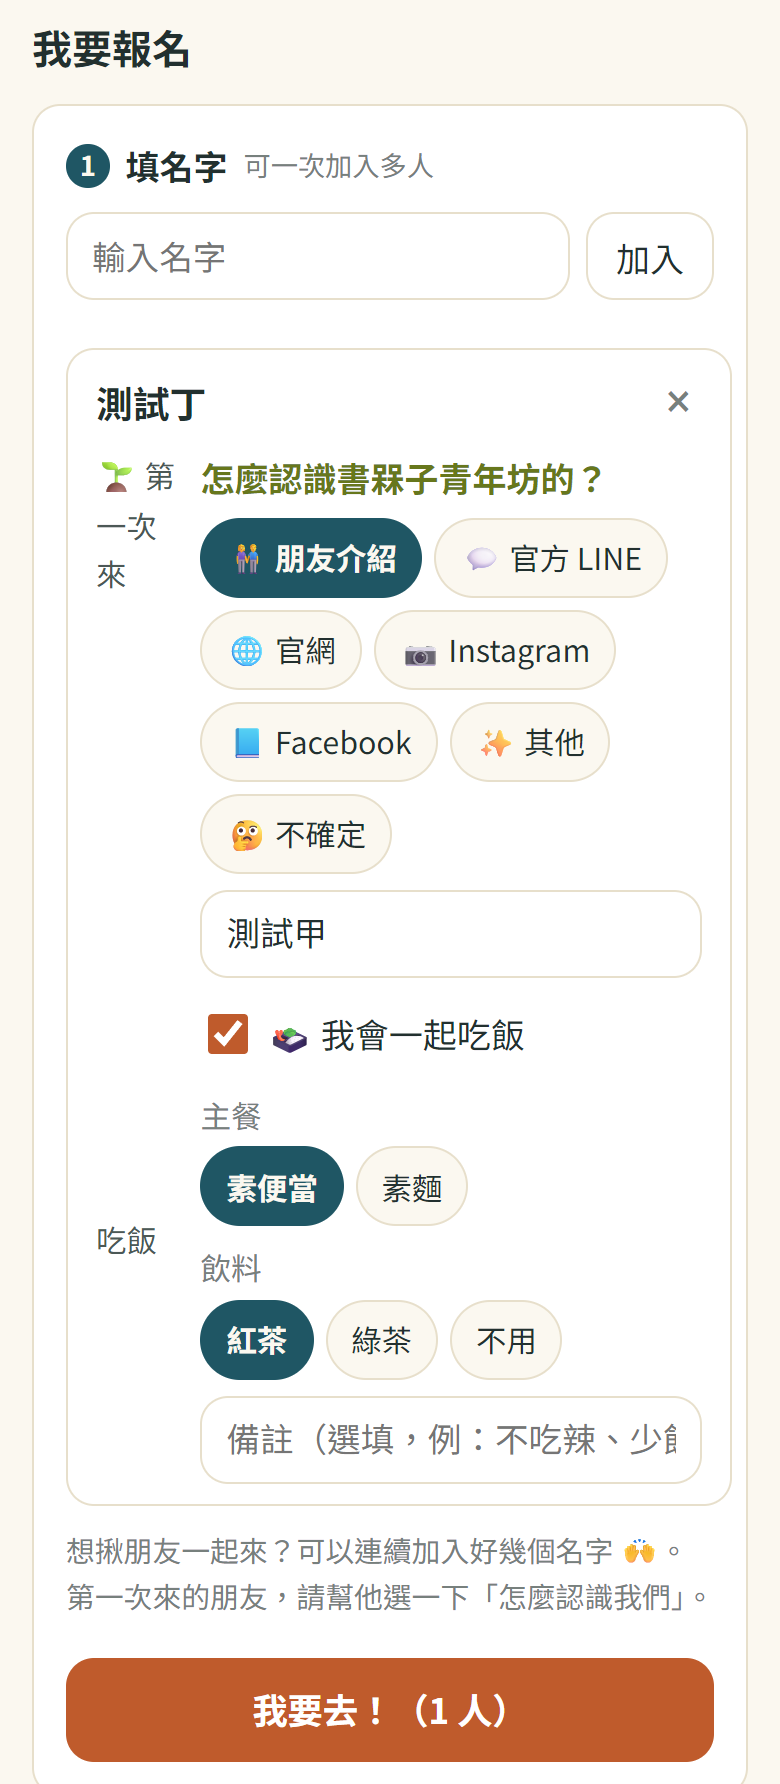
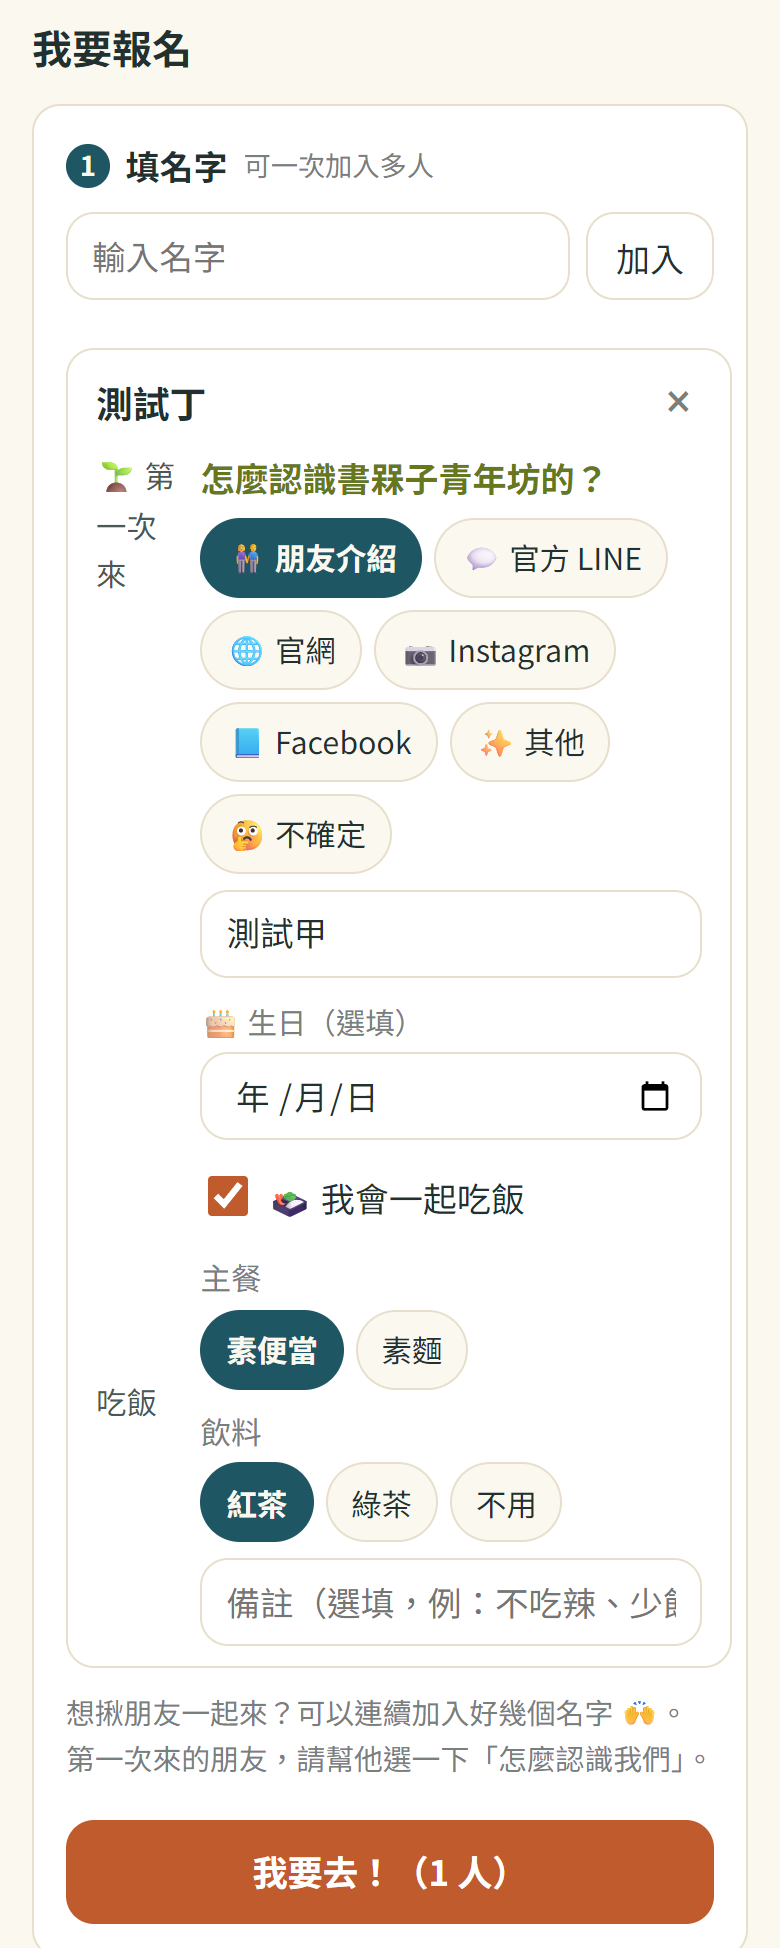
生日：第一次報名、團購結帳選填，後台可改；歲數照生日算；後台成員頁列本月壽星

diff --git a/js/admin-people.js b/js/admin-people.js
@@ -189,9 +189,14 @@
     const pendingList = data.members.filter((m) => m.pending);
     const isSuper = canEditPeople(); // 總管理者、道務、教育帳號可以編輯成員
     if (memberState.filter === 'pending' && !pendingList.length) memberState.filter = 'active';
+    // 🎂 本月壽星（啟用中、有生日的，照日期排）
+    const month = Fmt.toDateStr(new Date()).slice(5, 7);
+    const today = Fmt.toDateStr(new Date()).slice(5);
+    const stars = data.members.filter((m) => m.active && m.birthday && m.birthday.slice(5, 7) === month).sort((a, b) => (a.birthday.slice(5) < b.birthday.slice(5) ? -1 : 1));
     body.innerHTML = `
       ${AdminPage.staleNote(stale)}
       ${flash}
+      ${stars.length ? `<div class="notice bday-box"><p><strong>🎂 本月壽星（${Number(month)} 月）</strong></p><ul class="bday-list">${stars.map((m) => { const md = m.birthday.slice(5); const passed = md < today; const age = Number(Fmt.toDateStr(new Date()).slice(0, 4)) - Number(m.birthday.slice(0, 4)); return `<li class="${md === today ? 'is-today' : passed ? 'is-past' : ''}"><span>${Number(md.slice(0, 2))}/${Number(md.slice(3))}</span><b>${esc(m.name)}</b><small>${md === today ? '今天生日 🎉・' : ''}滿 ${age} 歲</small></li>`; }).join('')}</ul></div>` : ''}
       ${pendingList.length ? `<div class="notice pending-banner" role="status"><p>🆕 <strong>有 ${pendingList.length} 位新成員待確認</strong>（報名時自動加入的新名字）</p>${memberState.filter === 'pending' ? '<p class="muted">確認每一位：沒問題按「保留」；其實是名單上的某人（寫法不同）按「合併到⋯」；打錯或不需要的按「刪除」。</p>' : '<button type="button" class="btn btn-primary" data-show-pending>查看待確認的人</button>'}</div>` : ''}
       ${canEditPeople() ? '<div class="admin-actions"><button type="button" class="btn btn-primary" data-add>＋ 新增成員</button><button type="button" class="btn" data-from-signups>從出勤紀錄加入成員</button>' + (Fmt.feature('temple') ? '<button type="button" class="btn" data-import-members>📋 匯入成員資料</button><button type="button" class="btn" data-same-name>👥 同名的舊紀錄</button>' : '') + '</div>' : ''}
       <div class="list-filter">
@@ -356,7 +361,8 @@
       ${sources.length ? `<label class="form-row"><span>🌱 怎麼認識的${v.firstDate ? `（第一次報名 ${esc(Fmt.rocDate(v.firstDate))}）` : ''}</span><select class="input" name="source"><option value="">（空白）</option>${sources.map((x) => `<option${x === v.source ? ' selected' : ''}>${esc(x)}</option>`).join('')}</select></label>
       <label class="form-row" data-ref-row${v.source === '朋友介紹' ? '' : ' hidden'}><span>介紹人</span><input class="input" name="referrer" maxlength="20" value="${esc(v.referrer || '')}"></label>
       <label class="form-row" data-note-row${v.source === '其他' ? '' : ' hidden'}><span>在哪裡知道的</span><input class="input" name="sourceNote" maxlength="50" value="${esc(v.sourceNote || '')}"></label>` : ''}
-      <label class="form-row"><span>年齡（選填，今年幾歲；之後每年自動加一歲）</span><input class="input" name="age" inputmode="numeric" maxlength="3" value="${esc(v.age === undefined ? '' : v.age)}" placeholder="例：45"></label>
+      <label class="form-row"><span>🎂 生日（選填；有填的話歲數照生日算）</span><input class="input" type="date" name="birthday" min="1900-01-01" max="${esc(Fmt.toDateStr(new Date()))}" value="${esc(v.birthday || '')}"></label>
+      <label class="form-row" data-age-row${v.birthday ? ' hidden' : ''}><span>年齡（不知道生日的話填，今年幾歲；之後每年自動加一歲）</span><input class="input" name="age" inputmode="numeric" maxlength="3" value="${esc(v.age === undefined ? '' : v.age)}" placeholder="例：45"></label>
       <label class="check" data-veg-row${(v.identity || '') === '道親' && Fmt.feature('vegetarian') ? '' : ' hidden'}><input type="checkbox" name="vegetarian"${v.vegetarian ? ' checked' : ''}> 🥬 已清口</label>
       <label class="form-row"><span>備註</span><input class="input" name="note" value="${esc(v.note)}"></label>
       <label class="check"><input type="checkbox" name="active"${v.active ? ' checked' : ''}> 啟用中（取消勾選＝停用）</label>`,
@@ -366,7 +372,7 @@
       await Api.admin('adminSaveMember', {
         row: m ? m.row : undefined, original: m ? m.name : undefined,
         member: { ...(f.elements.source ? { source: f.elements.source.value, referrer: f.elements.referrer.value, sourceNote: f.elements.sourceNote.value } : {}), name: f.elements.name.value, identity: f.querySelector('input[name=identity]:checked').value, groups: g, note: f.elements.note.value, active: f.elements.active.checked,
-          age: f.elements.age.value.trim(), temple: f.elements.temple.value, aliases: f.elements.aliases.value, overseas: f.querySelector('input[name=overseas]:checked') ? f.querySelector('input[name=overseas]:checked').value : undefined, vegetarian: f.querySelector('input[name=identity]:checked').value === '道親' && f.elements.vegetarian.checked }
+          birthday: f.elements.birthday.value, ...(f.elements.birthday.value ? {} : { age: f.elements.age.value.trim() }), temple: f.elements.temple.value, aliases: f.elements.aliases.value, overseas: f.querySelector('input[name=overseas]:checked') ? f.querySelector('input[name=overseas]:checked').value : undefined, vegetarian: f.querySelector('input[name=identity]:checked').value === '道親' && f.elements.vegetarian.checked }
       });
       notice(AdminPage.notice('success', m ? '已存檔' : '已新增成員', f.elements.name.value.trim()));
       afterWrite(reload);
@@ -374,6 +380,9 @@
       : (m ? '<p class="hint">要刪除成員，請先取消勾選「啟用中」存檔（停用），再回來刪除。</p>' : '')));
 
     modal.el.querySelectorAll('input[name=identity]').forEach((r) => r.addEventListener('change', () => { modal.el.querySelector('[data-veg-row]').hidden = r.value !== '道親' || !r.checked || !Fmt.feature('vegetarian'); }));
+    // 填了生日就不用填年齡（歲數照生日算）
+    const bd = modal.el.querySelector('input[name=birthday]');
+    bd.addEventListener('input', () => { modal.el.querySelector('[data-age-row]').hidden = !!bd.value; });
     const srcSel = modal.el.querySelector('select[name=source]');
     if (srcSel) srcSel.addEventListener('change', () => {
       modal.el.querySelector('[data-ref-row]').hidden = srcSel.value !== '朋友介紹';

diff --git a/index.html b/index.html
@@ -19,7 +19,7 @@
   <link rel="preconnect" href="https://fonts.googleapis.com">
   <link rel="preconnect" href="https://fonts.gstatic.com" crossorigin>
   <link href="https://fonts.googleapis.com/css2?family=Noto+Sans+TC:wght@400;500;700;900&display=swap" rel="stylesheet">
-  <link rel="stylesheet" href="css/app.css?v=20261013g">
+  <link rel="stylesheet" href="css/app.css?v=20261013h">
   <script>try { var t = localStorage.getItem('shumeizi:text-size'); if (t === 'l' || t === 'xl') document.documentElement.classList.add('text-' + t); } catch (e) {}</script>
 </head>
 <body class="splash-on">
@@ -116,52 +116,52 @@
   <script src="https://cdn.jsdelivr.net/npm/fullcalendar@6.1.21/index.global.min.js"></script>
   <script src="https://cdn.jsdelivr.net/npm/@fullcalendar/core@6.1.21/locales/zh-tw.global.min.js"></script>
   <!-- 改了 js、css 後把 ?v= 的日期換新，手機才不會用到舊的檔案（GitHub Pages 會快取 10 分鐘） -->
-  <script src="js/site.js?v=20261013g"></script>
-  <script src="js/config.js?v=20261013g"></script>
-  <script src="js/api.js?v=20261013g"></script>
-  <script src="js/format.js?v=20261013g"></script>
-  <script src="js/lunar-util.js?v=20261013g"></script>
-  <script src="js/date-list.js?v=20261013g"></script>
-  <script src="js/share.js?v=20261013g"></script>
-  <script src="js/addcal.js?v=20261013g"></script>
-  <script src="js/duty-cache.js?v=20261013g"></script>
-  <script src="js/calendar.js?v=20261013g"></script>
-  <script src="js/confirm.js?v=20261013g"></script>
-  <script src="js/reschedule.js?v=20261013g"></script>
-  <script src="js/meal.js?v=20261013g"></script>
-  <script src="js/signup.js?v=20261013g"></script>
-  <script src="js/duty-images.js?v=20261013g"></script>
-  <script src="js/roster-grid.js?v=20261013g"></script>
-  <script src="js/grid-page.js?v=20261013g"></script>
-  <script src="js/duty.js?v=20261013g"></script>
-  <script src="js/mine.js?v=20261013g"></script>
-  <script src="js/venue.js?v=20261013g"></script>
-  <script src="js/push.js?v=20261013g"></script>
-  <script src="js/admin.js?v=20261013g"></script>
-  <script src="js/admin-pages.js?v=20261013g"></script>
-  <script src="js/draft-editor.js?v=20261013g"></script>
-  <script src="js/admin-duties.js?v=20261013g"></script>
-  <script src="js/admin-accounts.js?v=20261013g"></script>
-  <script src="js/import-parse.js?v=20261013g"></script>
-  <script src="js/admin-import.js?v=20261013g"></script>
-  <script src="js/admin-people.js?v=20261013g"></script>
-  <script src="js/stats-calc.js?v=20261013g"></script>
-  <script src="js/edu-stats.js?v=20261013g"></script>
-  <script src="js/admin-goals.js?v=20261013g"></script>
-  <script src="js/admin-venue.js?v=20261013g"></script>
-  <script src="js/admin-push.js?v=20261013g"></script>
-  <script src="js/admin-shop.js?v=20261013g"></script>
-  <script src="js/admin-stock.js?v=20261013g"></script>
-  <script src="js/shop.js?v=20261013g"></script>
-  <script src="js/tutorial.js?v=20261013g"></script>
-  <script src="js/help.js?v=20261013g"></script>
-  <script src="js/rollcall.js?v=20261013g"></script>
-  <script src="js/stats-export.js?v=20261013g"></script>
-  <script src="js/repair.js?v=20261013g"></script>
-  <script src="js/member-stats.js?v=20261013g"></script>
-  <script src="js/admin-stats.js?v=20261013g"></script>
-  <script src="js/history-parse.js?v=20261013g"></script>
-  <script src="js/admin-history.js?v=20261013g"></script>
-  <script src="js/app.js?v=20261013g"></script>
+  <script src="js/site.js?v=20261013h"></script>
+  <script src="js/config.js?v=20261013h"></script>
+  <script src="js/api.js?v=20261013h"></script>
+  <script src="js/format.js?v=20261013h"></script>
+  <script src="js/lunar-util.js?v=20261013h"></script>
+  <script src="js/date-list.js?v=20261013h"></script>
+  <script src="js/share.js?v=20261013h"></script>
+  <script src="js/addcal.js?v=20261013h"></script>
+  <script src="js/duty-cache.js?v=20261013h"></script>
+  <script src="js/calendar.js?v=20261013h"></script>
+  <script src="js/confirm.js?v=20261013h"></script>
+  <script src="js/reschedule.js?v=20261013h"></script>
+  <script src="js/meal.js?v=20261013h"></script>
+  <script src="js/signup.js?v=20261013h"></script>
+  <script src="js/duty-images.js?v=20261013h"></script>
+  <script src="js/roster-grid.js?v=20261013h"></script>
+  <script src="js/grid-page.js?v=20261013h"></script>
+  <script src="js/duty.js?v=20261013h"></script>
+  <script src="js/mine.js?v=20261013h"></script>
+  <script src="js/venue.js?v=20261013h"></script>
+  <script src="js/push.js?v=20261013h"></script>
+  <script src="js/admin.js?v=20261013h"></script>
+  <script src="js/admin-pages.js?v=20261013h"></script>
+  <script src="js/draft-editor.js?v=20261013h"></script>
+  <script src="js/admin-duties.js?v=20261013h"></script>
+  <script src="js/admin-accounts.js?v=20261013h"></script>
+  <script src="js/import-parse.js?v=20261013h"></script>
+  <script src="js/admin-import.js?v=20261013h"></script>
+  <script src="js/admin-people.js?v=20261013h"></script>
+  <script src="js/stats-calc.js?v=20261013h"></script>
+  <script src="js/edu-stats.js?v=20261013h"></script>
+  <script src="js/admin-goals.js?v=20261013h"></script>
+  <script src="js/admin-venue.js?v=20261013h"></script>
+  <script src="js/admin-push.js?v=20261013h"></script>
+  <script src="js/admin-shop.js?v=20261013h"></script>
+  <script src="js/admin-stock.js?v=20261013h"></script>
+  <script src="js/shop.js?v=20261013h"></script>
+  <script src="js/tutorial.js?v=20261013h"></script>
+  <script src="js/help.js?v=20261013h"></script>
+  <script src="js/rollcall.js?v=20261013h"></script>
+  <script src="js/stats-export.js?v=20261013h"></script>
+  <script src="js/repair.js?v=20261013h"></script>
+  <script src="js/member-stats.js?v=20261013h"></script>
+  <script src="js/admin-stats.js?v=20261013h"></script>
+  <script src="js/history-parse.js?v=20261013h"></script>
+  <script src="js/admin-history.js?v=20261013h"></script>
+  <script src="js/app.js?v=20261013h"></script>
 </body>
 </html>

diff --git a/js/shop.js b/js/shop.js
@@ -20,7 +20,7 @@
   let root = null;
   let token = 0;
   // 結帳表單（換團購時清掉）
-  const form = { groupId: '', pickupId: '', pay: '現場', last5: '', name: '', known: undefined, source: '', referrer: '', sourceNote: '', existing: null };
+  const form = { groupId: '', pickupId: '', pay: '現場', last5: '', name: '', known: undefined, source: '', referrer: '', sourceNote: '', birthday: '', existing: null };
 
   const money = (n) => `${Number(n || 0).toLocaleString('zh-TW')} 元`;
   const pickupText = (p) => `${Fmt.shortDate(p.date)}${p.startTime ? ' ' + p.startTime : ''}　${p.location || p.name}`;
@@ -340,6 +340,7 @@
       <p class="source-q">🌱 第一次來？怎麼認識${esc(window.SITE.org)}的？</p>
       <div class="source-chips">${SOURCES.map((s) => `<label class="pos-chip${form.source === s ? ' is-checked' : ''}"><input type="radio" name="src" value="${esc(s)}" data-src${form.source === s ? ' checked' : ''}>${SOURCE_ICON[s] || ''} ${esc(s)}</label>`).join('')}</div>
       ${form.source === '朋友介紹' ? `<input class="input source-extra" data-referrer maxlength="20" value="${esc(form.referrer)}" placeholder="介紹人是誰？（名字）">` : ''}
+      <label class="source-bday"><span>🎂 生日（選填）</span><input class="input" type="date" data-birthday min="1900-01-01" max="${esc(Fmt.toDateStr(new Date()))}" value="${esc(form.birthday)}"></label>
       ${form.source === '其他' ? `<input class="input source-extra" data-source-note maxlength="50" value="${esc(form.sourceNote)}" placeholder="說一下在哪裡知道的（選填）">` : ''}
     </div>`;
   }
@@ -426,6 +427,8 @@
     f.querySelectorAll('[data-src]').forEach((r) => r.addEventListener('change', () => { form.source = r.value; redraw(); const x = root.querySelector('[data-referrer], [data-source-note]'); if (x) x.focus(); }));
     const ref = f.querySelector('[data-referrer]');
     if (ref) ref.addEventListener('input', () => { form.referrer = ref.value; });
+    const bday = f.querySelector('[data-birthday]');
+    if (bday) bday.addEventListener('input', () => { form.birthday = bday.value; });
     const note = f.querySelector('[data-source-note]');
     if (note) note.addEventListener('input', () => { form.sourceNote = note.value; });
     const l5 = f.querySelector('[data-last5]');
@@ -506,7 +509,7 @@
       const res = await Api.shopOrder({
         groupId: g.id, name, mode: 'add', pickupId: form.pickupId, pay: form.pay, last5: form.pay === '轉帳' ? form.last5 : '',
         items: cartLines(g).map((l) => ({ id: l.id, option: l.option, qty: l.qty })),
-        source: form.known === false ? form.source : '', referrer: form.known === false && form.source === '朋友介紹' ? form.referrer.trim() : '',
+        source: form.known === false ? form.source : '', referrer: form.known === false && form.source === '朋友介紹' ? form.referrer.trim() : '', birthday: form.known === false ? form.birthday : '',
         sourceNote: form.known === false && form.source === '其他' ? form.sourceNote.trim() : ''
       });
       Busy.hide();

diff --git a/js/signup.js b/js/signup.js
@@ -238,6 +238,7 @@
           </div>
           ${e.source === '朋友介紹' ? `<input class="input source-extra" data-referrer="${i}" maxlength="20" value="${esc(e.referrer || '')}" placeholder="介紹人是誰？（名字）" aria-label="${esc(e.name)} 的介紹人">` : ''}
           ${e.source === '其他' ? `<input class="input source-extra" data-source-note="${i}" maxlength="50" value="${esc(e.sourceNote || '')}" placeholder="說一下在哪裡知道的（選填）" aria-label="${esc(e.name)} 在哪裡知道的">` : ''}
+          <label class="source-bday"><span>🎂 生日（選填）</span><input class="input" type="date" data-birthday="${i}" min="1900-01-01" max="${esc(Fmt.toDateStr(new Date()))}" value="${esc(e.birthday || '')}" aria-label="${esc(e.name)} 的生日（選填）"></label>
         </div>
       </div>`;
     }
@@ -515,7 +516,7 @@
         dates: Array.from(state.dates).sort(),
         entries: state.entries.map((e) => ({ name: e.name, temple: e.temple || '', identity: e.identity, accompany: e.accompany,
           meal: !!duty.meal && !!e.meal, mealChoice: duty.meal && e.meal ? e.mealChoice || {} : {}, mealNote: duty.meal && e.meal ? String(e.mealNote || '').trim() : '', source: e.known === false ? e.source || '' : '', referrer: e.known === false && e.source === '朋友介紹' ? normalize(e.referrer) : '',
-          sourceNote: e.known === false && e.source === '其他' ? normalize(e.sourceNote) : '', leader: !!duty.leaderTitle && !e.accompany && e.name === state.leader, note: duty.layout === '職司表' ? String(e.note || '').trim() : '', positionIds: duty.positions.filter((p) => e.positionIds.has(p.id)).map((p) => p.id) }))
+          sourceNote: e.known === false && e.source === '其他' ? normalize(e.sourceNote) : '', birthday: e.known === false ? e.birthday || '' : '', leader: !!duty.leaderTitle && !e.accompany && e.name === state.leader, note: duty.layout === '職司表' ? String(e.note || '').trim() : '', positionIds: duty.positions.filter((p) => e.positionIds.has(p.id)).map((p) => p.id) }))
       };
       // 每個人報的項目不一樣時，成功訊息逐人列出
       const same = payload.entries.every((e) => e.positionIds.join() === payload.entries[0].positionIds.join());
@@ -744,6 +745,7 @@
       if (t.dataset.entryNote !== undefined) state.entries[Number(t.dataset.entryNote)].note = t.value;
       if (t.dataset.referrer !== undefined) state.entries[Number(t.dataset.referrer)].referrer = t.value;
       if (t.dataset.sourceNote !== undefined) state.entries[Number(t.dataset.sourceNote)].sourceNote = t.value;
+      if (t.dataset.birthday !== undefined) state.entries[Number(t.dataset.birthday)].birthday = t.value;
       if (t.dataset.mealNote !== undefined) state.entries[Number(t.dataset.mealNote)].mealNote = t.value;
     });
     form.addEventListener('submit', submit);

diff --git a/css/app.css b/css/app.css
@@ -2770,3 +2770,13 @@ body.is-sub .homepage-link { display: none; }
 .stock-variant b { color: var(--ink, inherit); }
 .stock-variant.is-low b { color: var(--berry); }
 .stock-rec-acts { display: flex; flex-direction: column; gap: 6px; flex: none; }
+/* 生日：第一次報名的選填欄、後台本月壽星 */
+.source-bday { display: flex; flex-direction: column; gap: 4px; margin-top: 10px; font-size: .92rem; color: var(--muted); }
+.source-bday .input { max-width: 14em; }
+.bday-box { margin-bottom: 12px; }
+.bday-list { list-style: none; margin: 6px 0 0; padding: 0; display: flex; flex-wrap: wrap; gap: 6px 8px; }
+.bday-list li { display: inline-flex; align-items: baseline; gap: 6px; padding: 4px 12px; border-radius: 999px; background: var(--card); border: 1px solid var(--line); }
+.bday-list li span { color: var(--muted); font-size: .9rem; }
+.bday-list li small { color: var(--muted); }
+.bday-list li.is-today { border-color: var(--accent); background: var(--accent-soft); }
+.bday-list li.is-past { opacity: .6; }

diff --git a/docs/spec.md b/docs/spec.md
@@ -49,6 +49,7 @@
   - 統計：志工統計拿掉道親佔比（改看參加人次、場次、參與人數），每個類別的統計下面都有「🌱 新朋友」：這段期間第一次報名幾位、各管道幾位、介紹人（誰介紹幾位）、名單。
   - 伺服器回給畫面的錯誤訊息照 `SITE.wording` 換字（勤務→活動、了愿項目→項目），程式內部的字不變。
   - 測試：`tests/env.js` 預設照教全區的行為（原本的測試照舊）；`createEnv(時間, { shumeizi: true })` 用書槑子的設定（`tests/shumeizi.test.js`）。
+- **生日（2026/10/13 討論確定）**：第一次報名（活動報名、團購結帳的「🌱 第一次來」那一塊）多一格「🎂 生日（選填）」；後台編輯成員也能填、改。存在「成員」分頁最後新增的「生日」（yyyy-MM-dd），同時更新「出生年」。有生日的人歲數照生日算（過了生日才加一歲），沒有的照舊用年齡（出生年）。後台成員頁上方列「🎂 本月壽星」（日期、名字、幾歲），只有後台看得到，公開 API 不回傳生日。生日不能是以後、也不能超過 120 年前。
 
 ### 0.5 「我會一起吃飯」
 - 每個活動在後台可以選要不要開啟（有時候的時間不一定會吃飯）。
